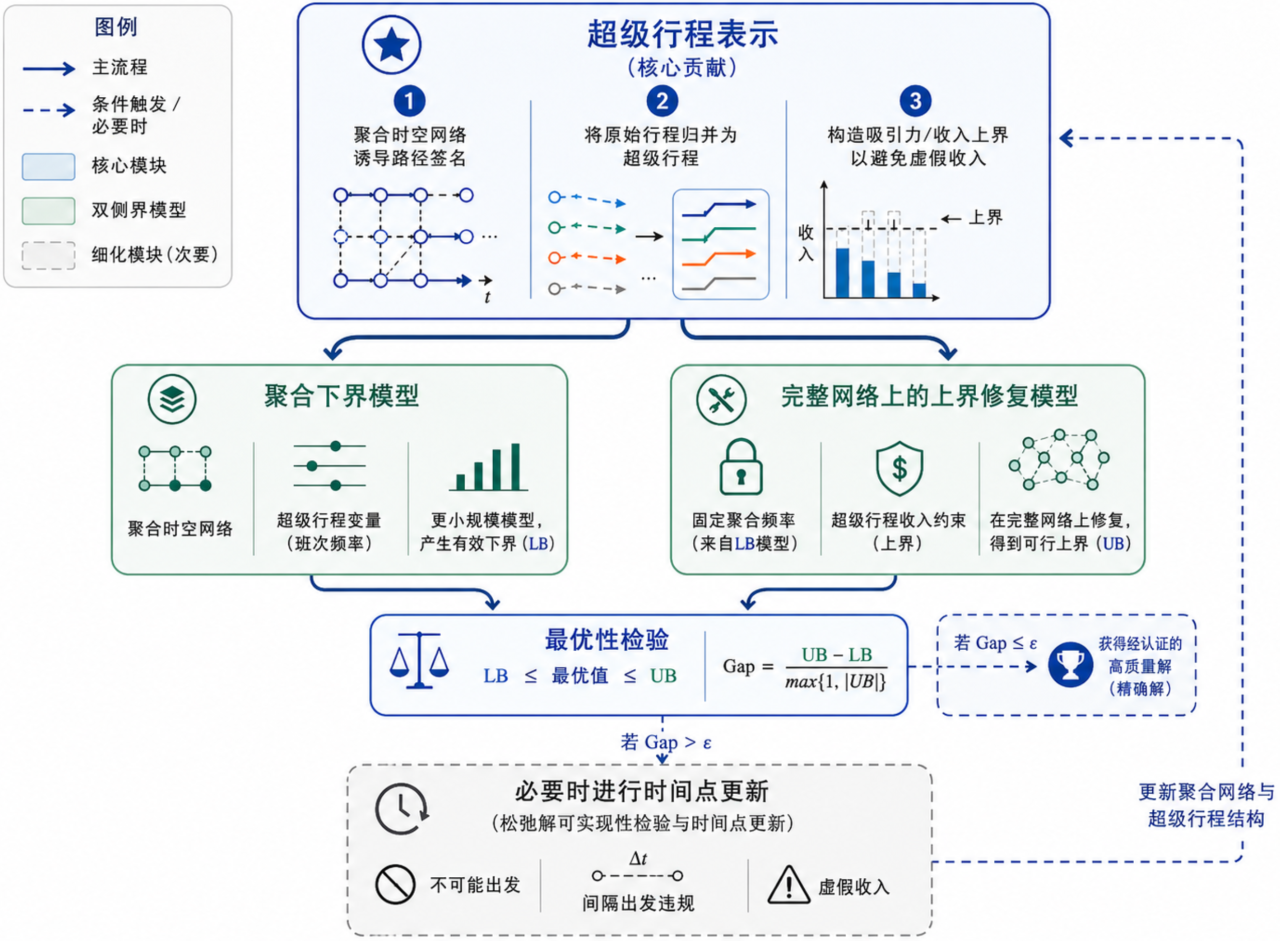
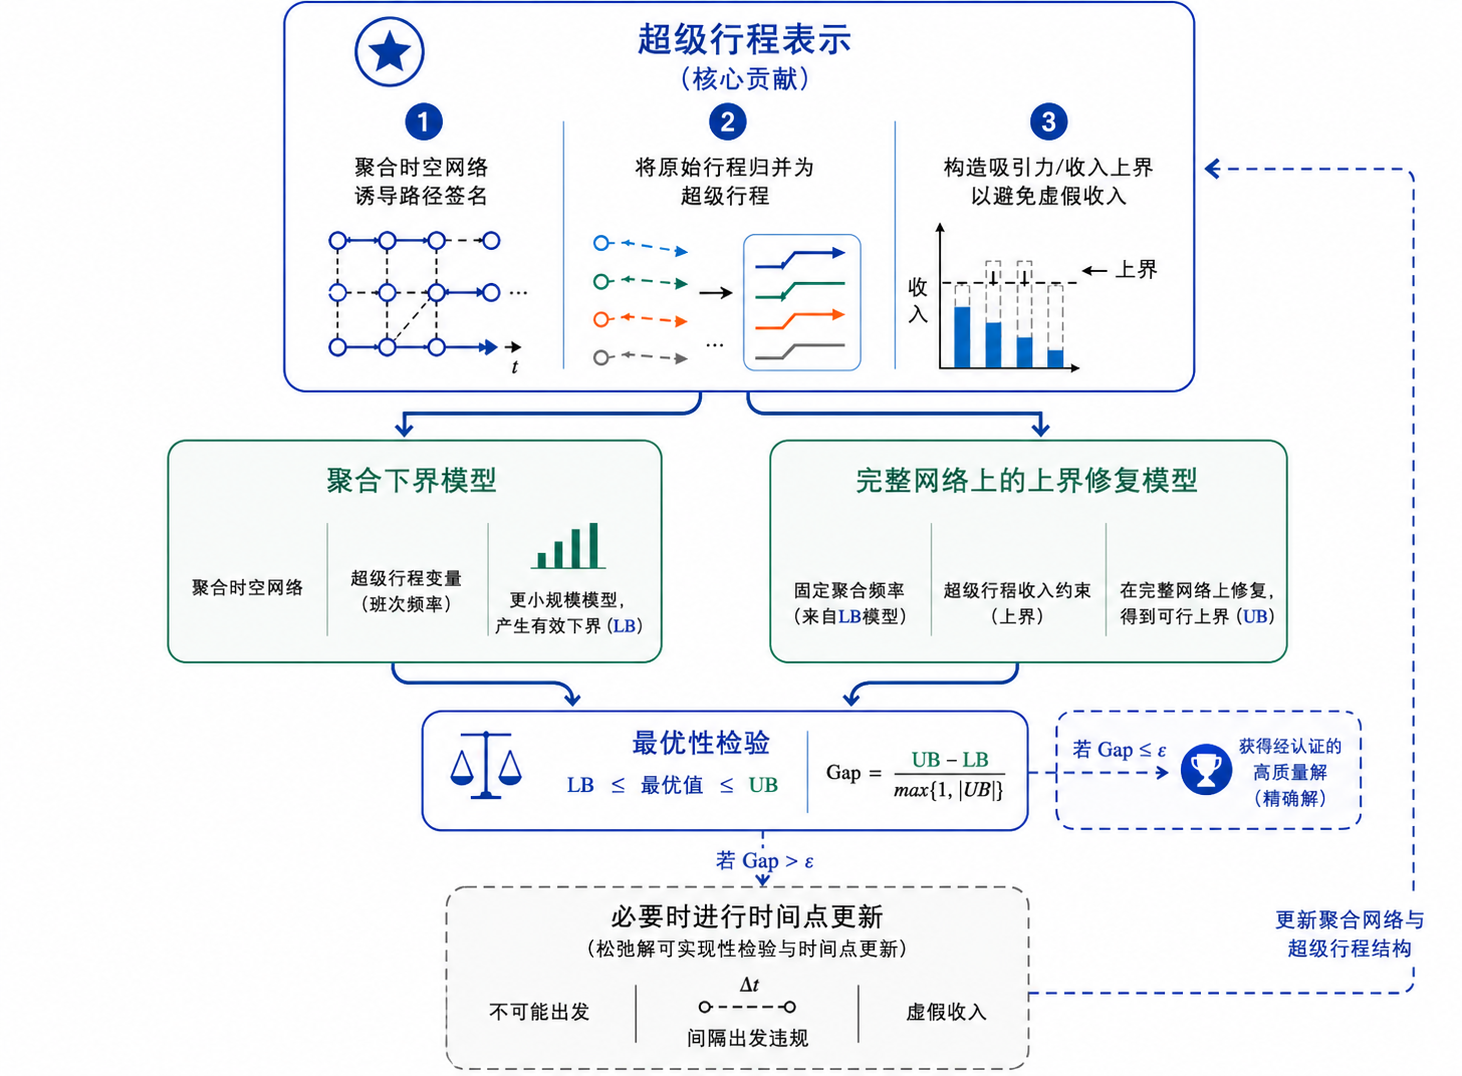
ver03

diff --git a/figure/algo/main.tex b/figure/algo/main.tex
@@ -1,0 +1,175 @@
+\documentclass[tikz,border=6pt]{standalone}
+\usepackage{ctex}
+\usepackage{amsmath}
+\usetikzlibrary{arrows.meta,calc,positioning}
+
+\definecolor{mainblue}{RGB}{0,52,170}
+\definecolor{deepgreen}{RGB}{0,116,80}
+\definecolor{softblue}{RGB}{247,250,255}
+\definecolor{softgreen}{RGB}{247,253,249}
+\definecolor{softgray}{RGB}{249,249,249}
+
+\tikzset{
+  >={Stealth[length=3mm]},
+  blockMain/.style={draw=mainblue, very thick, rounded corners=8pt, fill=softblue},
+  blockSub/.style={draw=deepgreen, very thick, rounded corners=8pt, fill=softgreen},
+  blockCheck/.style={draw=mainblue, very thick, rounded corners=8pt, fill=softblue},
+  blockAux/.style={draw=gray!60, very thick, dashed, rounded corners=8pt, fill=softgray},
+  arrowMain/.style={draw=mainblue, very thick, -{Stealth[length=3mm]}},
+  arrowDash/.style={draw=mainblue, very thick, dashed, -{Stealth[length=3mm]}},
+  titleBlue/.style={font=\bfseries\Large, text=mainblue, align=center},
+  titleGreen/.style={font=\bfseries\Large, text=deepgreen, align=center},
+  normalText/.style={font=\small, align=center},
+  strongText/.style={font=\bfseries\small, align=center},
+  num/.style={circle, fill=mainblue, text=white, minimum size=6.5mm, inner sep=0pt, font=\bfseries},
+  subbox/.style={draw=gray!35, rounded corners=5pt, fill=white, minimum width=2.25cm, minimum height=1.35cm, inner sep=2pt}
+}
+
+\begin{document}
+\begin{tikzpicture}
+
+% =====================================================
+% 1. Super-itinerary block. All internal coordinates are local.
+% =====================================================
+\begin{scope}[shift={(0,0)}]
+  \node[blockMain, minimum width=15.8cm, minimum height=4.8cm, anchor=north] (top) at (0,0) {};
+  \node[titleBlue, anchor=north] at (0,-0.1) {超级行程表示};
+
+  \draw[mainblue!25] (-2.55,-1.20) -- (-2.55,-4.25);
+  \draw[mainblue!25] ( 2.55,-1.20) -- ( 2.55,-4.25);
+
+  % Column 1
+  \begin{scope}[shift={(-5.1,-2.2)}]
+    \node[num] at (0,0.90) {1};
+    \node[strongText] at (0,0) {聚合时空网络\\诱导路径签名};
+    \node[normalText] at (0,-1) {按聚合后的时空弧序列\\定义路径签名};
+    \node[normalText] at (0,-2) {相同路径签名的原始行程\\进入同一候选聚合组};
+  \end{scope}
+
+  % Column 2
+  \begin{scope}[shift={(0,-2.2)}]
+    \node[num] at (0,0.90) {2};
+    \node[strongText] at (0,0) {将原始行程归并为\\超级行程};
+    \node[normalText] at (0,-1) {以路径签名为基础\\建立等价划分};
+    \node[normalText] at (0,-2) {用紧凑的超级行程集合\\替代庞大的原始行程集合};
+  \end{scope}
+
+  % Column 3
+  \begin{scope}[shift={(5.1,-2.2)}]
+    \node[num] at (0,0.90) {3};
+    \node[strongText] at (0,0) {构造吸引力/收入上界\\以避免不可实现收入};
+    \node[normalText] at (0,-1) {覆盖完整网络中的\\可行组合};
+    \node[normalText] at (0,-2) {抑制不可兼容行程的简单累加\\导致的收入高估};
+  \end{scope}
+\end{scope}
+
+% =====================================================
+% 2. Lower-bound model block.
+% =====================================================
+\begin{scope}[shift={(-4.5,-5.75)}]
+  \node[blockSub, minimum width=7.0cm, minimum height=3.25cm, anchor=north] (lb) at (0,0) {};
+  \node[titleGreen, anchor=north] at (0,-0.2) {聚合下界模型};
+
+  \begin{scope}[shift={(-2.25,-1.65)}]
+    \node[subbox, minimum width=2.1cm, minimum height=2cm] (a) at (0,-0.35) {};
+    \node[strongText] at (0,0.27) {聚合时空网络};
+    \node[normalText] at (0,-0.50) {在较粗粒度下\\描述服务结构};
+  \end{scope}
+
+  \begin{scope}[shift={(0,-1.65)}]
+    \node[subbox, minimum width=2.1cm, minimum height=2cm] (b) at (0,-0.35) {};
+    \node[strongText] at (0,0.27) {超级行程变量};
+    \node[normalText] at (0,-0.5) {在聚合空间中\\描述选择结构};
+  \end{scope}
+
+  \begin{scope}[shift={(2.25,-1.65)}]
+    \node[subbox, minimum width=2.1cm, minimum height=2cm] (c) at (0,-0.35) {};
+    \node[strongText] at (0,0.27) {有效下界};
+    \node[normalText] at (0,-0.5) {更小规模模型\\产生 $\mathrm{LB}$};
+  \end{scope}
+\end{scope}
+
+% =====================================================
+% 3. Upper-bound repair block.
+% =====================================================
+\begin{scope}[shift={(4.75,-5.75)}]
+  \node[blockSub, minimum width=7.6cm, minimum height=3.25cm, anchor=north] (ub) at (0,0) {};
+  \node[titleGreen, anchor=north] at (0,-0.2) {完整网络上的上界修复模型};
+
+  \begin{scope}[shift={(-2.45,-1.65)}]
+    \node[subbox, minimum width=2.1cm, minimum height=2cm] (a) at (0,-0.35) {};
+    \node[strongText] at (0,0.27) {固定聚合频率};
+    \node[normalText] at (0,-0.5) {锁定\\频率结构};
+  \end{scope}
+
+  \begin{scope}[shift={(0,-1.65)}]
+    \node[subbox, minimum width=2.1cm, minimum height=2cm] (b) at (0,-0.35) {};
+    \node[strongText] at (0,0.27) {收入约束};
+    \node[normalText] at (0,-0.5) {限制\\收入高估};
+  \end{scope}
+
+  \begin{scope}[shift={(2.45,-1.65)}]
+    \node[subbox, minimum width=2.1cm, minimum height=2cm] (c) at (0,-0.35) {};
+    \node[strongText] at (0,0.27) {可行上界};
+    \node[normalText] at (0,-0.5) {完整网络\\修复可行 $\mathrm{UB}$};
+  \end{scope}
+\end{scope}
+
+% Arrows from top to middle blocks
+\draw[arrowMain] (-2.8,-4.8) .. controls (-2.8,-5.25) and (-4.5,-5.20) .. (-4.5,-5.75);
+\draw[arrowMain] ( 2.8,-4.8) .. controls ( 2.8,-5.25) and ( 4.75,-5.20) .. (4.75,-5.75);
+
+% =====================================================
+% 4. Optimality check block and accepted solution.
+% =====================================================
+\begin{scope}[shift={(0,-9.55)}]
+  \node[blockCheck, minimum width=8.8cm, minimum height=1.95cm, anchor=north] (gap) at (0,0) {};
+  \node[titleBlue, font=\bfseries\large, anchor=north] at (0,-0.25) {最优性检验};
+  \node[strongText] at (-2.15,-1.15) {$\mathrm{LB}\leq \text{最优值}\leq \mathrm{UB}$};
+  \node[strongText] at (2.25,-1.15) {$\mathrm{Gap}=\dfrac{\mathrm{UB}-\mathrm{LB}}{\max\{1,|\mathrm{UB}|\}}$};
+\end{scope}
+
+\draw[arrowMain] (-4.5,-9.0) .. controls (-4.3,-9.40) and (-2.2,-9.25) .. (-2.0,-9.55);
+\draw[arrowMain] ( 4.75,-9.0) .. controls ( 4.2,-9.40) and ( 2.2,-9.25) .. (2.0,-9.55);
+
+\begin{scope}[shift={(7.25,-9.55)}]
+  \node[blockAux, draw=mainblue, fill=white, minimum width=3.45cm, minimum height=1.85cm, anchor=north] (accept) at (0,0) {};
+  \node[strongText, text=mainblue] at (0,-0.55) {若 $\mathrm{Gap}\leq \varepsilon$};
+  \node[strongText, text=mainblue] at (0,-1.15) {获得经认证的\\高质量解（精确解）};
+\end{scope}
+\draw[arrowDash] (4.4,-10.55) -- (5.52,-10.55);
+
+% =====================================================
+% 5. Refinement block.
+% =====================================================
+\begin{scope}[shift={(0,-12.15)}]
+  \node[blockAux, minimum width=10.7cm, minimum height=2.75cm, anchor=north] (ref) at (0,0) {};
+  \node[font=\bfseries\Large, align=center, anchor=north] at (0,-0.25) {松弛解可实现性检验与时间点更新};
+
+  \begin{scope}[shift={(-3.35,-1.8)}]
+    \node[subbox, draw=gray!40, minimum width=2.85cm, minimum height=1.25cm] (a) at (0,0) {};
+    \node[strongText] at (0,0.23) {不可能出发};
+    \node[normalText] at (0,-0.28) {恢复资源可实现性};
+  \end{scope}
+
+  \begin{scope}[shift={(0,-1.8)}]
+    \node[subbox, draw=gray!40, minimum width=2.85cm, minimum height=1.25cm] (b) at (0,0) {};
+    \node[strongText] at (0,0.23) {间隔出发违规};
+    \node[normalText] at (0,-0.28) {消除最小间隔冲突};
+  \end{scope}
+
+  \begin{scope}[shift={(3.35,-1.8)}]
+    \node[subbox, draw=gray!40, minimum width=2.85cm, minimum height=1.25cm] (c) at (0,0) {};
+    \node[strongText] at (0,0.23) {不可实现收入};
+    \node[normalText] at (0,-0.28) {改善收入约束质量};
+  \end{scope}
+\end{scope}
+
+\draw[arrowDash] (0,-11.50) -- node[right, normalText] {若 $\mathrm{Gap}>\varepsilon$} (0,-12.15);
+
+% Feedback loop
+\draw[arrowDash] (5.35,-13.2) -- (10.2,-13.2) -- (10.2,-2.4) -- (7.9,-2.4);
+\node[normalText, text=mainblue, anchor=west] at (6.65,-13.2) {更新聚合网络与\\超级行程结构};
+
+\end{tikzpicture}
+\end{document}

diff --git a/chapter/refinement/phantom_revenue.tex b/chapter/refinement/phantom_revenue.tex
@@ -1,7 +1,7 @@
-\subsection{虚假收入}
-当松弛解$\solution = (\fleetAssignVar^*, \shareVar^*, \outsideShareVar^*)$同时满足资源可用性和间隔出发约束时，如果它依赖于“虚假收入”，仍可能是非法的。当聚合超级行程声称的收入无法由其组成原始行程在完全离散化网络中的任何有效组合物理实现时，就会发生这种情况。
+\subsection{不可实现收入}
+当松弛解$\solution = (\fleetAssignVar^*, \shareVar^*, \outsideShareVar^*)$同时满足资源可用性和间隔出发约束时，如果它依赖于“不可实现收入”，仍可能是非法的。当聚合超级行程声称的收入无法由其组成原始行程在完全离散化网络中的任何有效组合物理实现时，就会发生这种情况。
 
-由于基于销售的线性规划（SBLP）的高度耦合性质，外部选项份额$\outsideShareVar$作为动态变量。可用行程吸引力的局部降低可以将需求转移到外部选项，从而隐式地提高其他行程的选择界并重新分配顾客流。由于这种内生性，通过静态松弛分析评估虚假收入是不充分的。相反，我们建立一个收入可行性子问题（RFS）来建立严格的充要条件。该子问题仅用于检验当前松弛解的收入贡献能否由完整网络中的原始行程组合实现，并不作为下界模型或上界修复模型的一部分。
+由于基于销售的线性规划（SBLP）的高度耦合性质，外部选项份额$\outsideShareVar$作为动态变量。可用行程吸引力的局部降低可以将需求转移到外部选项，从而隐式地提高其他行程的选择界并重新分配顾客流。由于这种内生性，通过静态松弛分析评估不可实现收入是不充分的。相反，我们建立一个收入可行性子问题（RFS）来建立严格的充要条件。该子问题仅用于检验当前松弛解的收入贡献能否由完整网络中的原始行程组合实现，并不作为下界模型或上界修复模型的一部分。
 
 在排除不可能出发和间隔出发违规后，考虑聚合运营解$\fleetAssignVar^*$的一个完整网络运营原像$\hat{\fleetAssignVar}$。给定该完整服务分配$\hat{\fleetAssignVar}$，我们寻求检测每条超级行程$R$的目标收入贡献（定义为$Rev_{Rpl}^* = \demand_{mp} \fare_{Rl} \shareVar_{Rpl}^*$）是否可以通过将有效份额$\shareVar_{rpl}$分配给其组成原始行程$r \in \eqClassByPathSig_{(R)}$来实现。我们引入连续松弛变量$s_{Rpl} \ge 0$来捕获每条超级行程的收入缺口。RFS被表述为以下线性规划：
 \full{\begin{align}
@@ -15,4 +15,4 @@ RFS(\solution)=\min_{\shareVar, \outsideShareVar, s} \quad & \sum_{m\in \marketS
 
 约束(\ref{eq:rfs_target})强制底层原始行程满足松弛收入，使用$s_{Rpl}$吸收任何不可避免的赤字。约束(\ref{eq:rfs_ratio})-(\ref{eq:rfs_cap})确保恢复的顾客流严格遵守完整网络服务分配$\hat{\fleetAssignVar}$的物理容量和原始离散选择界。
 
-松弛解$\solution$包含虚假收入（因此是非法的）当且仅当RFS的最优目标值严格大于零（即$\sum s_{Rpl}^* > 0$）。对应于正松弛$s_{Rpl}^* > 0$的超级行程即为导致虚假收入的非法来源。通过向当前离散化$\discretization$添加相应时间点，可以确保所有这些虚假收入违规在更新后的离散化中不会发生。
+松弛解$\solution$包含不可实现收入（因此是非法的）当且仅当RFS的最优目标值严格大于零（即$\sum s_{Rpl}^* > 0$）。对应于正松弛$s_{Rpl}^* > 0$的超级行程即为导致不可实现收入的非法来源。通过向当前离散化$\discretization$添加相应时间点，可以确保所有这些不可实现收入违规在更新后的离散化中不会发生。

diff --git a/slide/contents/method.tex b/slide/contents/method.tex
@@ -92,9 +92,9 @@
 \end{frame}
 
 
-% Page 9: 虚假收入与行程聚合
-\begin{frame}{虚假收入与行程聚合}
-\begin{block}{问题：简单时间聚合导致虚假收入}
+% Page 9: 不可实现收入与行程聚合
+\begin{frame}{不可实现收入与行程聚合}
+\begin{block}{问题：简单时间聚合导致不可实现收入}
 \begin{itemize}
     \item LP 松弛甚至整数解可能累加来自\hl{不兼容行程}的收入
     \item 同一时段内多条行程共享同一服务弧 → 收入被重复计算
@@ -171,7 +171,7 @@
 \begin{enumerate}
     \item<1-> \hl{不可能出发}：聚合网络中资源过早可用，完整网络中无法实现
     \item<2-> \hl{间隔出发违规}：同一物理路段的出发间隔不满足最小间隔约束
-    \item<3-> \hl{虚假收入}：超级行程声称的收入无法由原始行程组合实现
+    \item<3-> \hl{不可实现收入}：超级行程声称的收入无法由原始行程组合实现
 \end{enumerate}
 \end{block}
 

diff --git a/chapters/metadata.tex b/chapters/metadata.tex
@@ -29,7 +29,7 @@
 
 % 内容简述（请用300字以内简要概述）
 \infoabstract{%
-本文研究考虑顾客选择行为的服务网络设计问题，提出一种基于行程聚合与动态细化的精确优化方法。该问题需要在内生需求下同时优化服务调度、资源分配和顾客需求分配，由于可行行程的组合爆炸和选择一致性约束的耦合，对现实规模实例在计算上极具挑战性。本文提出的行程聚合与动态细化框架包含三个核心组件：通过路径签名构造超级行程的行程聚合技术产生紧的下界；基于频率固定和超级行程收入约束的结构感知修复算法生成高质量上界；以及检测和解决不可能出发、间隔出发违规和虚假收入三类导致松弛解非法情形的时间点添加规则，保证算法有限收敛到全局最优。在涵盖60个机场、259条有向航段、可行行程数从约48万到142万的真实航空排班实例上的计算实验表明，该算法显著优于直接求解方法，验证了框架的实际适用性。
+本文研究考虑顾客选择行为的服务网络设计问题，该问题由于候选行程集合规模爆炸并与其他变量耦合而难以求解。本文提出行程聚合与动态细化框架，该框架利用路径签名将候选行程集合聚合为紧凑的超级行程集合，在聚合网络上求解松弛模型获得下界，在完整网络上修复得到可行上界，并通过迭代细化保证有限收敛到全局最优。在真实航空排班实例上，超级行程聚合将142万条候选行程压缩至约21万条（减少85\%），框架在所有测试实例上均于5小时内达到低于1\%的最优性间隙，显著优于直接求解方法。
 }
 
 % 毕业设计：图纸数量与正文字数（成果类型为 design 或 engineering 时填写，两者须同时填写）
@@ -37,10 +37,9 @@
 % \infowordcount{15000}
 
 % 毕业论文：正文总字数（成果类型为 thesis 时填写）
-\infothesiswords{22859}
+\infothesiswords{25681}
 
 % 随附资料（每条用 \item 开头；不填则显示空白行）
 \infomaterials{
-  \item 程序源代码
-  \item 实验数据集
+  \item 附录
 }

diff --git a/chapter/algorithm.tex b/chapter/algorithm.tex
@@ -7,9 +7,9 @@
 
 为此，本文利用当前离散化$\discretization$为每条原始行程定义粗粒度路径签名。具体而言，原始行程中的精确出发时间被映射到$\discretization$中对应的聚合时间点，从而得到该行程在$\discretization$下的路径签名。此处时空聚合的作用是为原始行程空间诱导一个等价划分：在当前离散化中具有相同路径签名的原始行程可被归并为一条超级行程。
 
-超级行程不能被简单理解为其内部所有原始行程的直接求和。由于这些原始行程的某些组合可能对应过于接近的出发时间、共享同一服务资源，或依赖不能同时满足的时空连接，它们在完整模型中并不一定能够同时实现。若直接将同一超级行程组内所有原始行程的吸引力输入选择模型，模型就会把不可同时实现的行程选择机会共同计入收入，从而产生原问题中不存在的虚假收入。
+超级行程不能被简单理解为其内部所有原始行程的直接求和。由于这些原始行程的某些组合可能对应过于接近的出发时间、共享同一服务资源，或依赖不能同时满足的时空连接，它们在完整模型中并不一定能够同时实现。若直接将同一超级行程组内所有原始行程的吸引力输入选择模型，模型就会把不可同时实现的行程选择机会共同计入收入，从而产生不可实现收入——即聚合模型或松弛模型中被计入目标函数、但无法由完整时空网络中的可行原始行程组合实现的收入。不可实现收入会导致聚合模型对可获得收益产生高估。
 
-因此，本文为每条超级行程构造其所代表的原始行程组合吸引力总和的上界。该上界并不是对组内全部原始行程吸引力的简单累加，而是在考虑当前离散化粒度下可同时实现的服务数量限制后，对可行原始行程组合选择潜力给出的乐观上界。换言之，任意完整网络中的可行行程组合都可以被该超级行程的吸引力上界覆盖，从而保证聚合模型不会低估原问题中的可行选择；同时，不可同时实现的原始行程不会被无约束地全部累加，从而抑制由时间聚合导致的虚假收入。
+因此，本文为每条超级行程构造其所代表的原始行程组合吸引力总和的上界。该上界并不是对组内全部原始行程吸引力的简单累加，而是在考虑当前离散化粒度下可同时实现的服务数量限制后，对可行原始行程组合选择潜力给出的乐观上界。换言之，任意完整网络中的可行行程组合都可以被该超级行程的吸引力上界覆盖，从而保证聚合模型不会低估原问题中的可行选择；同时，不可同时实现的原始行程不会被无约束地全部累加，从而抑制由时间聚合导致的不可实现收入。
 
 有了上述超级行程表示后，原问题中的行程选择空间可以从两个互补方向重新建模。
 
@@ -25,7 +25,7 @@
 
 \begin{figure}[htbp]
     \centering
-    \includegraphics[width=\textwidth]{figure/img/framework.png}
+    \includegraphics[width=0.7\textwidth]{figure/algo/main.pdf}
     \caption{\algoNotation 算法框架示意图}
     \label{fig:framework}
 \end{figure}

diff --git a/chapter/exp/F9_batch.tex b/chapter/exp/F9_batch.tex
@@ -7,7 +7,7 @@
 
 \section{实验设置}
 
-\subsection{数据来源与实例构建}
+% \subsection{数据来源与实例构建}
 
 本文实验数据基于美国交通部公开数据库构建。航班运营信息（包括机场、航段、飞行时间、机型和出发时刻）来源于航空公司准点性能数据库（AOTP）\citep{DOT_OTP_2025}；OD市场需求、旅客流量和票价信息来源于航空旅客起讫调查数据库（DB1B）\citep{DOT_DB1B_2025}。以边疆航空（Frontier Airlines, F9）为样本航空公司，基于2025年第一季度的运营记录构建实例。
 
@@ -25,7 +25,7 @@
 
 在顾客选择参数构建方面，根据出发时间、旅行时间、中转结构和票价等服务属性，采用线性效用模型估计每条行程的系统效用，并取指数得到吸引力参数$\alpha_{rp\ell} = \exp(V_{rp\ell})$。外部选项的吸引力根据竞争对手的市场份额进行校准，使模型预测的市场份额与实际观测值对齐。这些参数用于SBLP选择模型，刻画不同服务方案下顾客在行程和外部选项之间的选择行为。
 
-\subsection{实例规模与实验配置}
+% \subsection{实例规模与实验配置}
 
 为研究框架如何随问题规模扩展，我们通过变化规划时域构建了五个实例，规划时域从基准24小时周期的$1\times$到$3\times$。所有实例采用$15$分钟时间离散化步长。表~\ref{tab:f9_instances}总结了各实例的特征。
 
@@ -104,6 +104,8 @@ F9-3.0x & 72h  & 15min & 288  & 1{,}427{,}328 \\
 在基准案例（F9-1.0x）上，\algoNotation 在5小时内达到$<1\%$的最优性间隙。相比之下，原始模型在5小时时仍有$13.62\%$的间隙，即使延长到12小时也仅改善到$11.60\%$。原始模型的主要瓶颈在于每个分支定界节点的求解代价极高，导致搜索进展缓慢。
 
 随着规划时域增长，\algoNotation 的优势变得更加明显。在所有五个实例上，\algoNotation 均在5小时内达到$<1\%$的最优性间隙。对于F9-2.0x（约95万行程），原始模型在12小时后仍停滞在$8.38\%$。对于两个最大实例（F9-2.5x和F9-3.0x，超过100万行程），直接求解在百万级行程变量规模下已难以推进，未能返回可用于计算最优性间隙的结果。
+
+\algoNotation 框架的计算优势主要来源于超级行程聚合对行程空间的大幅压缩。以最大实例F9-3.0x为例，原始模型包含1{,}427{,}328条候选行程，而\algoNotation 达到最优性容差时的超级行程数量仅为210{,}720条，行程变量规模减少了$85.24\%$。这一压缩使得下界模型和上界修复模型的求解规模显著降低，是框架能够在合理时间内处理百万级行程变量的关键。
 
 \section{优化时刻表分析}
 基准案例（F9-1.0x）中达到最优性容差的解展示了以下运营特征。

diff --git a/chapter/lbm/relaxation.tex b/chapter/lbm/relaxation.tex
@@ -8,7 +8,7 @@
 为了将庞大的原始行程空间降维，我们首先需要建立从完整时空网络$\full{\net}$到聚合时空网络$\net$的拓扑映射关系。具体而言，对于完整网络中的每一条原始服务弧，我们通过时间点投影原则，在聚合网络中找到其唯一对应的聚合服务弧；而对于持有弧，则根据聚合节点之间的时间连贯性直接推导生成。令$\Phi_{\arcSet}:\full{\arcSet}\to \widetilde{\arcSet}$表示该弧映射规则（其中$\widetilde{\arcSet}:=\arcSet\cup\{\bot\}$，$\bot$捕获被折叠的短持有弧），$\Phi_{\nodeSet}:\full{\nodeSet}\twoheadrightarrow\nodeSet$表示节点映射。它们能够将完整网络中的任意节点或弧唯一映射至聚合网络$\net$中的对应元素。关于聚合节点生成规则、逆弧消除的初始离散化构造，以及本文映射$\Phi$的严格数学定义，详见附录\ref{sec:init_disc_detail}。
 在后续分析中，我们使用$\Phi_{\arcSet}^{-1}(a)=\{a'\in\full{\arcSet}\mid\Phi_{\arcSet}(a')=a\}$表示聚合弧$a$的原像集合，$\Phi_{\nodeSet}^{-1}(i,t)=\{(i,\tau)\in\full{\nodeSet}\mid\Phi_{\nodeSet}(i,\tau)=(i,t)\}$表示聚合节点$(i,t)$的原像集合。
 
-% \subsection{虚假收入与超级行程吸引力上界}
+% \subsection{不可实现收入与超级行程吸引力上界}
 
 上述聚合时空网络为定义路径签名提供了底层拓扑。然而，仅有时空聚合并不足以产生紧的下界。完整模型在分支定界时通常表现出较大的最优性间隙，因为其LP松弛允许分数资源流在多个相邻出发时间弧之间分割。
 这使得单个资源单位可以被分数地重复使用，从多个相邻时间弧收集收入。
@@ -29,7 +29,7 @@
 在LP松弛（面板2）中，求解器通过分配三个服务$f_1, f_2, f_3$各取值$x=\frac{1}{3}$来利用分数变量。因此每个分数分配包含服务的前三分之一，产生收入$3r_0$。这错误地暗示我们可以用仅一个资源单位等价的容量分散在时间上来服务所有潜在需求。
 面板3说明当使用上述的聚合手段将时间点$t_1, t_2, t_3$合并为单个窗口后考虑原问题时，我们上面定义的聚合网络将继承了这一缺陷。模型让聚合服务$f_{agg}$（$x=1$）提供完整服务时，底层的收入产生逻辑仍是利用了多个边际收益高的部分，以与完整模型LP松弛相同的方式再次产生$3r_0$收入。
 
-然而，在我们提出的行程聚合下，面板3中描述的情况被消除。
+然而，在本文提出的行程聚合下，面板3中由简单累加造成的收入高估会受到抑制。
 超级行程构造的核心在于为组内原始行程可同时实现的组合吸引力总和构造上界，而非简单累加全部原始行程。
 当$t_1, t_2, t_3$处的出发无法同时被合法运营时，它们构成单个超级行程的非法组合。
 我们的方法将吸引力求和限制在覆盖真实可兼容组合的候选组合族上，从而剥离由不可兼容行程简单累加造成的人为收入增益，使聚合模型给出的乐观评价更加接近完整模型的可实现收入。具体限制机制将在下文行程聚合过程中定义。
@@ -115,7 +115,7 @@ r \eqRelByPathSig r' \iff \pathSig{r} = \pathSig{r'}
 图\ref{fig:valid_combinations}说明了为什么行程聚合保持下界性质。
 考虑映射到同一超级行程的原始行程等价类。这些原始行程（例如$r_1, r_2, r_3$）由于完整模型中的间隔时间约束可能存在相互冲突。例如，如果$r_1$和$r_2$过于接近则不能同时运营。图中方法1对应精确冲突建模，方法2对应窗口容量乘积近似。方法2的候选组合族覆盖了精确冲突模型下的所有真实可兼容组合，因此其计算所得的超级行程吸引力不低于方法1的精确最大值，二者都保证不低于任何可行整数解对应的原始行程吸引力总和。
 
-综上所述，超级行程表示通过路径签名诱导的等价划分，将原始行程空间压缩为紧凑的超级行程集合；同时，超级行程的吸引力被构造为其所代表的原始行程可兼容组合吸引力总和的上界，既覆盖完整模型中的可行选择结构，又抑制由简单累加不可兼容行程所导致的虚假收入。在此基础上，下一节将进一步从超级行程表示推导出两个互补的优化子模型以求解原问题。
+综上所述，超级行程表示通过路径签名诱导的等价划分，将原始行程空间压缩为紧凑的超级行程集合；同时，超级行程的吸引力被构造为其所代表的原始行程可兼容组合吸引力总和的上界，既覆盖完整模型中的可行选择结构，又抑制由简单累加不可兼容行程所导致的不可实现收入。在此基础上，下一节将进一步从超级行程表示推导出两个互补的优化子模型以求解原问题。
 
 % \model{\discretization, \itinSetSuper}，最终松弛模型
 \section{基于超级行程的双侧界模型}\label{sec:bounds_models}

diff --git a/chapter/refinement/_main.tex b/chapter/refinement/_main.tex
@@ -1,7 +1,7 @@
 \section{松弛解可实现性检验与算法收敛}\label{sec:refinement_wrapper}
 \label{sec:refinement}
 
-上述超级行程双侧界框架在每一轮中基于当前聚合表示生成下界与上界。当当前上下界尚不能完成最优性认证时，说明当前聚合表示仍可能过粗，使松弛解在完整网络中无法被实现。通过分析松弛解在完整网络中的可实现性，本文识别三类导致松弛解非法的情形：不可能出发、间隔出发违规和虚假收入，并证明这三类情形构成松弛解非法的充要条件。
+上述超级行程双侧界框架在每一轮中基于当前聚合表示生成下界与上界。当当前上下界尚不能完成最优性认证时，说明当前聚合表示仍可能过粗，使松弛解在完整网络中无法被实现。通过分析松弛解在完整网络中的可实现性，本文识别三类导致松弛解非法的情形：不可能出发、间隔出发违规和不可实现收入，并证明这三类情形构成松弛解非法的充要条件。
 
 当上述三类情况之一发生时，当前松弛解不能在完整网络中实现。本文通过向当前离散化$\discretization$中加入相应的完整网络时间点来排除该松弛解。新增时间点会改变后续迭代中的弧映射、路径签名和超级行程划分，从而使下界模型不再重复利用同一类非法结构。第\ref{sec:refine_process}节给出三类情形下的具体时间点添加规则，并在定理\ref{thm:refine_converge}中证明由此得到的算法收敛性。本节中的时间点添加并不重新定义本文的主要建模对象，而是作为超级行程双侧界框架的认证步骤。
 
@@ -38,8 +38,8 @@
 如果在物理路段$(i,j)$上检测到间隔出发违规，即$\sepViolAmount_{ij}(t) > 0$，则表明分配到该路段的多个物理服务被聚合到重叠的间隔窗口中。识别物理出发时间$t_a(k)$落在违规区间$[t, t + \minInterdepTime_{s})$内的相关服务弧$k \in \segArcSet{s}$。
 按流量$\fleetAssignVar_{k}$降序排列这些服务弧并选择顶部弧。对于每个选定的弧$k$，将其真实物理出发时间$t_a(k)$插入起点节点$i$的离散化中，即$\discretization_i \gets \discretization_i \cup \{t_a(k)\}$。这确保模型在下一次迭代中可以区分这些接近的出发，最终迫使它们满足最小间隔约束。同时，新增时间点会改变所在时间段内原始行程的路径签名，该时间段内原本被聚合在同一超级行程等价类中的原始行程将因路径签名的变化而被分离。
 
-\subsubsection*{虚假收入}
-当超级行程$R$被识别为具有虚假收入（即RFS中$s_{Rpl}^* > 0$）时，当前离散化过于粗糙，无法表示其组成行程$\eqClassByPathSig_{(R)}$的真实物理连通性或容量约束。对于每条导致收入缺口的原始行程$r \in \eqClassByPathSig_{(R)}$，提取其所有组成服务段的物理到达和出发时间。令$t^{phys}$为节点$i$处的此类物理时间点，更新离散化$\discretization_i \gets \discretization_i \cup \{t^{phys}\}$。通过在超级行程的过渡点处插入真实的物理时间节点，直接打破了当前的聚合等价类划分$\eqClassByPathSig_{(R)}$，使下界模型不能再以相同方式累加该组原始行程的收入。
+\subsubsection*{不可实现收入}
+当超级行程$R$被识别为具有不可实现收入（即RFS中$s_{Rpl}^* > 0$）时，当前离散化过于粗糙，无法表示其组成行程$\eqClassByPathSig_{(R)}$的真实物理连通性或容量约束。对于每条导致收入缺口的原始行程$r \in \eqClassByPathSig_{(R)}$，提取其所有组成服务段的物理到达和出发时间。令$t^{phys}$为节点$i$处的此类物理时间点，更新离散化$\discretization_i \gets \discretization_i \cup \{t^{phys}\}$。通过在超级行程的过渡点处插入真实的物理时间节点，直接打破了当前的聚合等价类划分$\eqClassByPathSig_{(R)}$，使下界模型不能再以相同方式累加该组原始行程的收入。
 
 以下定理保证上述时间点添加规则在有限次迭代后使算法收敛到全局最优解。
 \input{thm/refine_converge/_main.tex}

diff --git a/chapters/00_abstract.tex b/chapters/00_abstract.tex
@@ -1,10 +1,10 @@
 \MakeAbstract{
 服务网络设计问题广泛存在于航空、铁路、城际客运等定时服务运营场景中。经典服务网络设计将需求视为外生给定，在时空网络上优化服务调度和资源分配；然而实际中顾客会根据服务属性进行选择，使需求随服务计划内生变化。将选择行为纳入服务网络设计引入了选择变量与资源调度约束之间的强耦合，使混合整数规划模型在实际规模下难以求解。
-为此，本文提出行程聚合与动态细化框架（\algoNotation）。该框架利用时空网络聚合诱导的路径签名将原始行程表示为超级行程集合，并为每个超级行程构造可兼容原始行程组合吸引力总和的上界，既覆盖原问题中的可行选择组合，又抑制时间聚合导致的虚假收入。基于超级行程表示，本文构造原问题最优值的双侧界：在聚合网络上求解松弛模型获得下界，利用频率结构和超级行程收入约束在完整网络上修复得到可行上界。当双侧界尚不能证明最优性时，有针对性地更新离散化及超级行程表示，保证算法有限收敛到全局最优解。计算实验表明，\algoNotation 能够求解含百万级行程变量的大规模模型，并在可接受的计算时间内达到最优性容差。
+为此，本文提出行程聚合与动态细化框架（\algoNotation）。该框架利用时空网络聚合诱导的路径签名将原始行程表示为超级行程集合，并为每个超级行程构造可兼容原始行程组合吸引力总和的上界，既覆盖原问题中的可行选择组合，又抑制时间聚合导致的不可实现收入。基于超级行程表示，本文构造原问题最优值的双侧界：在聚合网络上求解松弛模型获得下界，利用频率结构和超级行程收入约束在完整网络上修复得到可行上界。当双侧界尚不能证明最优性时，有针对性地更新离散化及超级行程表示，保证算法有限收敛到全局最优解。在真实航空排班实例上的计算实验表明，超级行程聚合将候选行程从142万条压缩至约21万条（减少85\%），\algoNotation 在所有测试实例上均于5小时内达到低于1\%的最优性间隙，显著优于直接求解方法。
 }{服务网络设计，顾客选择，行程聚合，混合整数规划，精确算法}
 
 \MakeAbstractEng{
-Service network design with customer choice (\problemName) is prevalent in airlines, railways, intercity passenger transport, and other scheduled service operations. Classical service network design treats demand as exogenously given and optimizes service scheduling and resource assignment on discretized time-space networks; however, in real service systems, customers choose among available service options based on departure times, connection quality, travel time, and fares, making demand endogenous to the service plan. Incorporating choice behavior into service network design captures supply-demand interactions more accurately, but introduces strong coupling among large-scale choice variables, choice-consistency constraints, and resource scheduling constraints, rendering the resulting mixed-integer program intractable at realistic scales. Traditional approaches based on time-space network discretization or dynamic refinement primarily compress the physical service network and cannot address the computational challenges arising from the explosion of the customer choice space and the fictitious revenue caused by temporal aggregation.
+Service network design with customer choice (\problemName) is prevalent in airlines, railways, intercity passenger transport, and other scheduled service operations. Classical service network design treats demand as exogenously given and optimizes service scheduling and resource assignment on discretized time-space networks; however, in real service systems, customers choose among available service options based on departure times, connection quality, travel time, and fares, making demand endogenous to the service plan. Incorporating choice behavior into service network design captures supply-demand interactions more accurately, but introduces strong coupling among large-scale choice variables, choice-consistency constraints, and resource scheduling constraints, rendering the resulting mixed-integer program intractable at realistic scales. Traditional approaches based on time-space network discretization or dynamic refinement primarily compress the physical service network and cannot address the computational challenges arising from the explosion of the customer choice space and the unrealizable revenue caused by temporal aggregation.
 
-To this end, this paper proposes an Itinerary Aggregation and Dynamic Refinement framework (\algoNotation). The framework uses path signatures induced by physical time-space network aggregation to represent the original itinerary set as a compact set of super-itineraries. Unlike simple merging of original itineraries, this paper computes a tight upper bound on the combined attraction of feasible original itinerary combinations represented by each super-itinerary, and constructs corresponding revenue bounds. This aggregation rule ensures that super-itineraries cover all feasible choice combinations in the original problem, preventing the relaxation model from underestimating feasible choices; it also prevents simple accumulation of revenues from incompatible original itineraries within the same aggregated choice set, thereby suppressing fictitious revenue caused by temporal aggregation. Based on this super-itinerary representation, the paper constructs two-sided bounds on the optimal value of the original problem: on one hand, solving a compact relaxation model on the aggregated time-space network and super-itinerary space yields a valid lower bound; on the other hand, using the service frequency structure from the relaxation solution together with revenue-layer constraints derived from super-itineraries strengthens a feasible-solution repair model on the full time-space network, yielding feasible upper bounds. When the two-sided bounds cannot yet certify optimality of the current feasible solution, the paper updates the time-space discretization and its induced super-itinerary representation in a targeted manner, and proves that the algorithm converges to the globally optimal solution in a finite number of iterations. Computational experiments on large-scale instances demonstrate that \algoNotation\xspace solves previously intractable models with million-level itinerary variables, achieving the prescribed optimality tolerance within practical runtime limits.
+To this end, this paper proposes an Itinerary Aggregation and Dynamic Refinement framework (\algoNotation). The framework uses path signatures induced by physical time-space network aggregation to represent the original itinerary set as a compact set of super-itineraries. Unlike simple merging of original itineraries, this paper computes a tight upper bound on the combined attraction of feasible original itinerary combinations represented by each super-itinerary, and constructs corresponding revenue bounds. This aggregation rule ensures that super-itineraries cover all feasible choice combinations in the original problem, preventing the relaxation model from underestimating feasible choices; it also prevents simple accumulation of revenues from incompatible original itineraries within the same aggregated choice set, thereby suppressing unrealizable revenue caused by temporal aggregation. Based on this super-itinerary representation, the paper constructs two-sided bounds on the optimal value of the original problem: on one hand, solving a compact relaxation model on the aggregated time-space network and super-itinerary space yields a valid lower bound; on the other hand, using the service frequency structure from the relaxation solution together with revenue-layer constraints derived from super-itineraries strengthens a feasible-solution repair model on the full time-space network, yielding feasible upper bounds. When the two-sided bounds cannot yet certify optimality of the current feasible solution, the paper updates the time-space discretization and its induced super-itinerary representation in a targeted manner, and proves that the algorithm converges to the globally optimal solution in a finite number of iterations. Computational experiments on real-world airline scheduling instances demonstrate that super-itinerary aggregation compresses 1.43 million candidate itineraries to approximately 210 thousand (an 85\% reduction), and \algoNotation\xspace achieves less than 1\% optimality gap within 5 hours on all test instances, significantly outperforming direct solution methods.
 }{Service Network Design, Customer Choice, Itinerary Aggregation, Mixed-integer Programming, Exact Algorithm}

diff --git a/figure/tech/main.tex b/figure/tech/main.tex
@@ -124,8 +124,8 @@
 容量约束\\连接$x$与$w$};
 
 \node[box, fill=black!3, text width=2.65cm] (d3) at (2.1,\LayerC)
-{\textbf{虚假收入}\\[-1mm]
-松弛中累加\\不可实现收入};
+{\textbf{不可实现收入}\\[-1mm]
+松弛累加无法\\物理实现的收入};
 
 \node[box, fill=black!3, text width=2.65cm] (d4) at (6.3,\LayerC)
 {\textbf{直接求解困难}\\[-1mm]
@@ -143,7 +143,7 @@
 
 \node[corebox, text width=2.85cm] (c2) at (-2.1,\LayerD)
 {吸引力上界\\[-1mm]
-\normalfont 覆盖可兼容组合\\抑制虚假收入};
+\normalfont 覆盖可兼容组合\\抑制不可实现收入};
 
 \node[corebox, text width=2.85cm] (c3) at (2.1,\LayerD)
 {双侧界模型\\[-1mm]

diff --git a/chapter/conclusion.tex b/chapter/conclusion.tex
@@ -7,9 +7,9 @@
 
 在建模方面，本文建立了考虑顾客选择的服务网络设计混合整数规划模型，在时空网络上同时处理服务调度、资源分配和顾客需求分配决策，并通过基于GAM/SBLP的线性选择表示将顾客选择行为纳入约束体系。
 
-在行程聚合方面，本文利用当前离散化诱导的路径签名将原始行程划分为等价类，每个等价类由一条超级行程代表。超级行程的吸引力被构造为组内可兼容原始行程组合吸引力总和的上界，从而在压缩行程变量规模的同时避免了时间聚合带来的虚假收入。
+在行程聚合方面，本文利用当前离散化诱导的路径签名将原始行程划分为等价类，每个等价类由一条超级行程代表。超级行程的吸引力被构造为组内可兼容原始行程组合吸引力总和的上界，从而在压缩行程变量规模的同时避免了时间聚合带来的不可实现收入。
 
-在求解框架方面，本文基于超级行程的构造，得到了聚合下界模型、完整网络上界修复模型以及松弛解可实现性检验机制，形成完整的双侧界求解框架。下界模型在聚合网络和超级行程空间上求解，给出原问题最优值的有效下界；上界修复模型利用频率固定和超级行程收入约束在完整网络上生成可行解；可实现性检验通过识别不可能出发、间隔出发违规和虚假收入三类非法情形，指导时间点的定向添加。在不受最大迭代次数截断时，算法在有限步内收敛到全局最优解。
+在求解框架方面，本文基于超级行程的构造，得到了聚合下界模型、完整网络上界修复模型以及松弛解可实现性检验机制，形成完整的双侧界求解框架。下界模型在聚合网络和超级行程空间上求解，给出原问题最优值的有效下界；上界修复模型利用频率固定和超级行程收入约束在完整网络上生成可行解；可实现性检验通过识别不可能出发、间隔出发违规和不可实现收入三类非法情形，指导时间点的定向添加。在不受最大迭代次数截断时，算法在有限步内收敛到全局最优解。
 
 在实验验证方面，本文在真实航空排班实例上测试了框架的计算效果。五个实例的可行行程数从约48万到142万不等，\algoNotation 均在5小时内达到$<1\%$的最优性间隙。作为对比，直接求解完整模型在中小规模实例上仍保留约$7\%$--$14\%$的间隙，在百万级行程变量实例上则未能给出可用结果。
 

diff --git a/chapter/introduction.tex b/chapter/introduction.tex
@@ -59,9 +59,9 @@
 
 （1）提出基于路径签名的超级行程聚合方法。通过定义行程在聚合网络上的路径签名，将共享相同签名的原始行程归入同一等价类，构造超级行程作为等价类的紧凑表示。该方法在保持选择结构有效性的前提下，将行程变量的规模降低一至两个数量级。
 
-（2）构造基于超级行程的下界模型和完整网络上界修复模型。下界模型在聚合网络上以超级行程为选择单元进行优化，消除了精确行程松弛中的虚假收入；上界修复模型利用下界解的频率结构和超级行程收入约束，在完整网络上重构可行整数解。两个模型互补配合，实现对原问题最优值的有效夹逼。
+（2）构造基于超级行程的下界模型和完整网络上界修复模型。下界模型在聚合网络上以超级行程为选择单元进行优化，消除了精确行程松弛中的不可实现收入；上界修复模型利用下界解的频率结构和超级行程收入约束，在完整网络上重构可行整数解。两个模型互补配合，实现对原问题最优值的有效夹逼。
 
-（3）设计松弛解可实现性检验与时间点添加规则，保证算法收敛。通过分析松弛解在完整网络中的可实现性，识别不可能出发、间隔出发违规和虚假收入三类非法情形，并证明其构成松弛解非法的充要条件。基于此设计定向的时间点添加策略，保证算法在有限步内收敛到全局最优。
+（3）设计松弛解可实现性检验与时间点添加规则，保证算法收敛。通过分析松弛解在完整网络中的可实现性，识别不可能出发、间隔出发违规和不可实现收入三类非法情形，并证明其构成松弛解非法的充要条件。基于此设计定向的时间点添加策略，保证算法在有限步内收敛到全局最优。
 
 （4）在真实航空排班实例上验证算法有效性。在包含数十万至百万级行程变量的实例上，所提\algoNotation 框架能够在实际可接受的计算时间内达到预设最优性容差，证明了方法的实用价值。
 